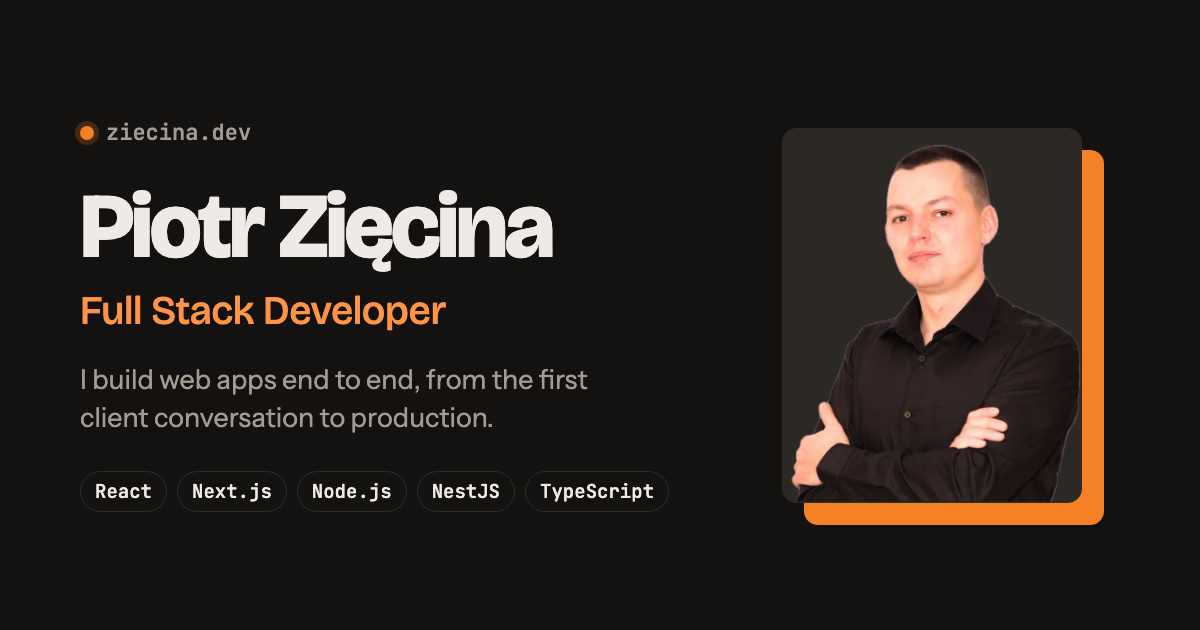
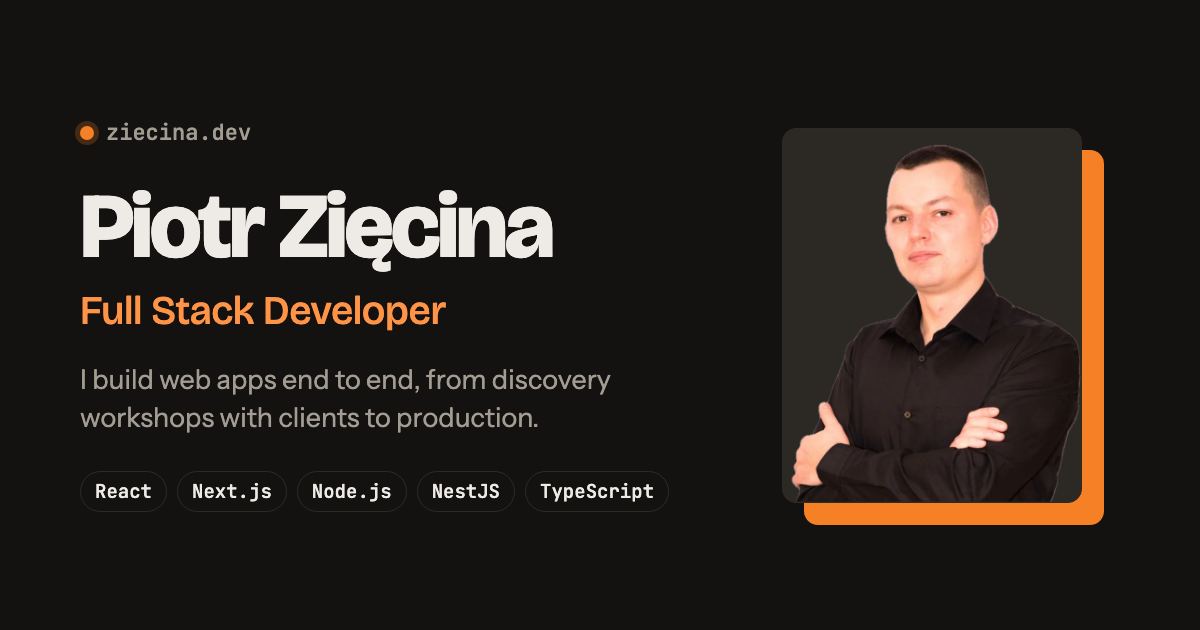
feat: compact experience timeline; full details stay in the CV

Changed region(s): [[0.0617, 0.573, 0.5242, 0.6937]]

diff --git a/src/content/pl.ts b/src/content/pl.ts
@@ -5,7 +5,7 @@ export const pl: Dictionary = {
     title:
       "Piotr Zięcina — Full Stack Developer (React, Next.js, NestJS, TypeScript)",
     description:
-      "Full Stack Developer z Wrocławia, ponad 4 lata doświadczenia komercyjnego. Tworzę aplikacje webowe od pierwszej rozmowy z klientem aż po produkcję.",
+      "Full Stack Developer z Wrocławia, ponad 4 lata doświadczenia komercyjnego. Tworzę aplikacje webowe od początku do końca: od warsztatów produktowych z klientem po wdrożenie na produkcję.",
   },
   nav: {
     projects: "Projekty",
@@ -23,7 +23,7 @@ export const pl: Dictionary = {
     badge: "Otwarty na nowe propozycje",
     name: "Piotr Zięcina",
     role: "Full Stack Developer",
-    lede: "Tworzę aplikacje webowe od początku do końca: od rozmowy z klientem po wdrożenie na produkcję. Na frontendzie React, Next.js i Vue; na backendzie Node.js, NestJS i SQL. **Ponad 4 lata doświadczenia komercyjnego**, ostatnio w SmartBear.",
+    lede: "Tworzę aplikacje webowe od początku do końca: od warsztatów produktowych z klientem po wdrożenie na produkcję. Na frontendzie React, Next.js i Vue; na backendzie Node.js, NestJS i SQL. **Ponad 4 lata doświadczenia komercyjnego**, ostatnio w SmartBear.",
     viewProjects: "Zobacz projekty",
     location: "Wrocław · praca zdalna lub hybrydowa",
     portraitAlt: "Zdjęcie Piotra Zięciny",
@@ -72,7 +72,7 @@ export const pl: Dictionary = {
         "Kontrola budowy domu: etapy, wydatki na tle budżetu, dokumenty i raporty PDF dla banku.",
       labels: { openSource: "Open source", liveDemo: "Demo na żywo" },
       short:
-        "Budując dom, żongluje się arkuszami, paragonami i raportami dla banku. Build Budget trzyma budżet, dokumenty i dziennik budowy w jednym miejscu i na bieżąco udostępnia je wszystkim osobom w projekcie.",
+        "Buduję własny dom i chciałem mieć wszystko o nim w jednym miejscu. Build Budget dzieli budowę na etapy i przy każdym trzyma budżet, rachunki, dokumenty i zdjęcia, na bieżąco udostępnione wszystkim osobom w projekcie.",
       highlights: [
         "Tokeny JWT (access i refresh) w ciasteczkach httpOnly z cichym odświeżaniem. Wykryłem i naprawiłem wyścig (race condition), w którym równoległe żądania jednocześnie odświeżały token.",
         "Subskrypcje Stripe z webhookami weryfikowanymi podpisem. Plan darmowy jest ograniczony do jednego projektu.",
@@ -112,50 +112,22 @@ export const pl: Dictionary = {
         period: "2024 – obecnie",
         role: "Software Developer",
         company: "SmartBear",
-        products: [
-          {
-            name: "Reflect",
-            description: "platforma do automatycznego testowania z AI",
-            duration: "15 miesięcy",
-            stack: "Vue.js · TypeScript · Scala · MySQL · AWS · Terraform",
-            bullets: [
-              "Dodałem wgrywanie plików CSV do wsadowego uruchamiania testów z podstawianiem zmiennych, dla klientów z testami opartymi na danych.",
-              "Samodzielnie zaprojektowałem i zbudowałem (frontend i backend) wyszukiwarkę danych testu, która stała się głównym narzędziem działu wsparcia klienta.",
-              "Wdrożyłem analitykę Amplitude, zbierając dane o użyciu z różnych produktów SmartBear w jednym miejscu.",
-              "Zbudowałem około 10 komponentów wielokrotnego użytku dla Reflect Design System na podstawie projektów w Figmie.",
-            ],
-          },
-          {
-            name: "Visual Test",
-            description: "narzędzie do wizualnego porównywania obrazów z AI",
-            duration: "9 miesięcy",
-            stack: "React · Next.js · NestJS · MySQL · AWS",
-            bullets: [
-              "Zmniejszyłem liczbę podatności bezpieczeństwa o 40% dzięki regularnym audytom i aktualizacjom zależności.",
-              "Dodałem testy jednostkowe obejmujące około 70% kodu, co zmniejszyło dług techniczny o 35%.",
-              "Analizowałem zgłoszenia klientów i razem z product managerami zamieniałem je w zadania w backlogu.",
-            ],
-          },
-        ],
+        summary: "Dwa produkty do testowania z AI: Reflect (Vue.js, Scala) i Visual Test (React, Next.js, NestJS).",
+        results: ["Zaprojektowałem i zbudowałem (frontend i backend) wyszukiwarkę danych testu, która stała się głównym narzędziem działu wsparcia klienta.", "Zmniejszyłem liczbę podatności bezpieczeństwa o 40% dzięki regularnym audytom i aktualizacjom zależności."],
       },
       {
         period: "2022 – 2024",
         role: "Full Stack Developer",
         company: "Ampcasd",
-        stack: "Next.js · Strapi · NestJS · GraphQL · MySQL · Tailwind CSS",
-        bullets: [
-          "Prowadziłem 4-osobowy zespół, który zbudował CMS i platformę webową dla centrum kultury w Niemczech, od analizy potrzeb do startu produkcyjnego w około rok.",
-          "Zapisy na zajęcia, karnety, rezerwacje sal i bilety na koncerty, z integracjami PayPal, polecenia zapłaty SEPA i niemieckiego systemu fiskalnego.",
-          "Platforma urosła do ponad 1600 użytkowników i ponad 1800 sprzedanych karnetów.",
-        ],
+        summary: "Prowadziłem 4-osobowy zespół, który zbudował CMS i platformę z zapisami, rezerwacjami i płatnościami dla centrum kultury w Niemczech, od analizy potrzeb do startu w około rok.",
+        results: ["Platforma urosła do ponad 1600 użytkowników i ponad 1800 sprzedanych karnetów."],
       },
       {
         period: "2019 – 2022",
         role: "Electrical Supervisor",
         company: "KNAPP",
-        bullets: [
-          "Nadzorowałem budowę zautomatyzowanych magazynów i systemów wysyłkowych dla klientów takich jak Tiffany, Kroger, Adidas i M&S.",
-        ],
+        summary: "Nadzorowałem budowę zautomatyzowanych magazynów i systemów wysyłkowych dla klientów takich jak Tiffany, Kroger, Adidas i M&S.",
+        results: [],
       },
     ],
     fullCv: "Pełne CV (PDF)",
@@ -324,13 +296,13 @@ export const pl: Dictionary = {
       meta: [{ label: "Rola", value: "Wszystko: produkt, API, frontend, infrastruktura, CI" }, { label: "Stack", value: "Next.js · NestJS · PostgreSQL · Redis" }, { label: "Hosting", value: "Vercel (web) · Railway (API)" }],
       links: [{ label: "Demo", href: "https://build-budget-app-web.vercel.app" }, { label: "GitHub", href: "https://github.com/softdevpz/build-budget-app" }],
       linksNote: "Kod jest publiczny",
-      problem: { heading: "Problem", body: "Budując dom, żongluje się arkuszami, paragonami i raportami dla banku. Budżet jest w jednym pliku, faktury w folderze zdjęć, a bank chce raportu w swoim formacie. Każda osoba w projekcie, od partnera po kierownika budowy, pracuje na innej kopii." },
+      problem: { heading: "Problem", body: "Buduję własny dom, a budowa produkuje mnóstwo informacji: telefony do wykonawców, zdjęcia z placu budowy, rachunki, faktury i pozwolenia. Każdy etap ma swój stos, a w praktyce wszystko było rozrzucone po arkuszach, galerii w telefonie i papierowych segregatorach. Chciałem jednego miejsca, w którym przechowam to wszystko, uporządkowane według etapów i obok budżetu, tak żeby znaleźć wszystko w kilka sekund i udostępnić to każdemu, kto bierze udział w budowie." },
       role: { heading: "Moja rola", body: "Wszystko od początku do końca: zakres produktu, API w NestJS, frontend w Next.js, infrastruktura i CI. Zbudowałem go jako kompletny produkt SaaS, a nie demo CRUD-a: z porządnym logowaniem, płatnościami, zadaniami w tle, przechowywaniem plików i aktualizacjami na żywo." },
       built: {
         heading: "Co zbudowałem",
         items: [
-          { title: "Budżet dla każdego etapu", body: "Projekt dzieli się na etapy z planowanym budżetem. Wydatki są liczone na tle planu, z wykresem podsumowania i ostrzeżeniem przy każdym etapie, który przekracza budżet." },
-          { title: "Dokumenty i dziennik budowy", body: "Pliki trafiają z przeglądarki prosto do S3 przez presigned URL, więc API nie przepuszcza przez siebie ich zawartości. Każdy etap ma dziennik ze zdjęciami." },
+          { title: "Budżet dla każdego etapu", body: "Budowa dzieli się na etapy, a każdy etap ma własną stronę z wydatkami, dokumentami, dziennikiem i zadaniami. Wydatki są liczone na tle planowanego budżetu, z wykresem podsumowania i ostrzeżeniem przy każdym etapie, który go przekracza." },
+          { title: "Dokumenty i dziennik budowy", body: "Rachunki, faktury i pozwolenia trafiają z przeglądarki prosto do S3 przez presigned URL, więc API nie przepuszcza przez siebie ich zawartości. Każdy etap ma dziennik ze zdjęciami z budowy." },
           { title: "Raporty PDF dla banku", body: "Raporty generują się w tle (Redis, BullMQ, PDFKit), więc ciężki raport nigdy nie blokuje zapytania. Użytkownik pobiera go, gdy jest gotowy." },
           { title: "Współpraca na żywo", body: "Projekt można udostępnić z rolą właściciela albo edytora. Socket.io wysyła zmiany etapów i wydatków do wszystkich, którzy mają projekt otwarty." },
           { title: "Subskrypcje", body: "Stripe Checkout z darmowym planem ograniczonym do jednego projektu. Plan zmienia się wyłącznie przez webhooki weryfikowane podpisem." },

diff --git a/src/content/en.ts b/src/content/en.ts
@@ -5,7 +5,7 @@ export const en: Dictionary = {
     title:
       "Piotr Zięcina — Full Stack Developer (React, Next.js, NestJS, TypeScript)",
     description:
-      "Full Stack Developer from Wrocław with 4+ years of commercial experience. I build web apps end to end, from the first client conversation to production.",
+      "Full Stack Developer from Wrocław with 4+ years of commercial experience. I build web apps end to end, from discovery workshops with clients to releases in production.",
   },
   nav: {
     projects: "Projects",
@@ -23,7 +23,7 @@ export const en: Dictionary = {
     badge: "Open to new opportunities",
     name: "Piotr Zięcina",
     role: "Full Stack Developer",
-    lede: "I build web applications end to end, from talking to the client to shipping to production. React, Next.js and Vue on the frontend; Node.js, NestJS and SQL on the backend. **4+ years of commercial experience**, most recently at SmartBear.",
+    lede: "I build web applications end to end, from discovery workshops with clients to releases in production. React, Next.js and Vue on the frontend; Node.js, NestJS and SQL on the backend. **4+ years of commercial experience**, most recently at SmartBear.",
     viewProjects: "View projects",
     location: "Wrocław, Poland · open to remote and hybrid",
     portraitAlt: "Portrait of Piotr Zięcina",
@@ -72,7 +72,7 @@ export const en: Dictionary = {
         "Track a house build: stages, expenses against budget, documents and bank-ready PDF reports.",
       labels: { openSource: "Open source", liveDemo: "Live demo" },
       short:
-        "People building a house juggle spreadsheets, receipts and bank reports. Build Budget keeps the budget, documents and construction diary in one place, shared in real time with everyone on the project.",
+        "I'm building my own house and wanted one place for everything about it. Build Budget splits the build into stages and keeps each stage's budget, receipts, documents and photos together, shared in real time with everyone on the project.",
       highlights: [
         "JWT access and refresh tokens in httpOnly cookies, with silent refresh. I found and fixed a race condition where parallel requests were refreshing the token at the same time.",
         "Stripe subscriptions with signature-verified webhooks. The free plan is limited to one project.",
@@ -112,50 +112,22 @@ export const en: Dictionary = {
         period: "2024 – present",
         role: "Software Developer",
         company: "SmartBear",
-        products: [
-          {
-            name: "Reflect",
-            description: "AI-powered automated testing platform",
-            duration: "15 months",
-            stack: "Vue.js · TypeScript · Scala · MySQL · AWS · Terraform",
-            bullets: [
-              "Added CSV upload for batch test runs with variable substitution, for clients running data-driven test suites.",
-              "Designed and built, frontend and backend, a test-data lookup that became the customer support team's main tool.",
-              "Implemented Amplitude analytics, centralising usage data across SmartBear products.",
-              "Built about 10 reusable UI components for the Reflect Design System from Figma specs.",
-            ],
-          },
-          {
-            name: "Visual Test",
-            description: "AI-powered visual comparison tool",
-            duration: "9 months",
-            stack: "React · Next.js · NestJS · MySQL · AWS",
-            bullets: [
-              "Cut security vulnerabilities by 40% through systematic dependency audits and upgrades.",
-              "Added unit tests across about 70% of the codebase, reducing technical debt by 35%.",
-              "Triaged customer issues with product managers and turned them into backlog items.",
-            ],
-          },
-        ],
+        summary: "Two AI-powered testing products: Reflect (Vue.js, Scala) and Visual Test (React, Next.js, NestJS).",
+        results: ["Designed and built a test-data lookup, frontend and backend, that became the customer support team's main tool.", "Cut security vulnerabilities by 40% through systematic dependency audits and upgrades."],
       },
       {
         period: "2022 – 2024",
         role: "Full Stack Developer",
         company: "Ampcasd",
-        stack: "Next.js · Strapi · NestJS · GraphQL · MySQL · Tailwind CSS",
-        bullets: [
-          "Led a team of 4 developers building a CMS and web platform for a cultural centre in Germany, from discovery to production launch in about a year.",
-          "Class registration, subscriptions, room booking and concert tickets, with PayPal, SEPA direct debit and German fiscal reporting integrations.",
-          "Grew the platform to 1,600+ users and 1,800+ subscriptions sold.",
-        ],
+        summary: "Led a team of 4 building a CMS and a booking and payments platform for a cultural centre in Germany, from discovery to launch in about a year.",
+        results: ["Grew the platform to 1,600+ users and 1,800+ subscriptions sold."],
       },
       {
         period: "2019 – 2022",
         role: "Electrical Supervisor",
         company: "KNAPP",
-        bullets: [
-          "Supervised construction of automated warehouse and shipping systems for clients such as Tiffany, Kroger, Adidas and M&S.",
-        ],
+        summary: "Supervised construction of automated warehouse and shipping systems for clients such as Tiffany, Kroger, Adidas and M&S.",
+        results: [],
       },
     ],
     fullCv: "Full CV (PDF)",
@@ -325,13 +297,13 @@ export const en: Dictionary = {
       meta: [{ label: "Role", value: "Everything: product, API, frontend, infrastructure, CI" }, { label: "Stack", value: "Next.js · NestJS · PostgreSQL · Redis" }, { label: "Hosting", value: "Vercel (web) · Railway (API)" }],
       links: [{ label: "Live demo", href: "https://build-budget-app-web.vercel.app" }, { label: "GitHub", href: "https://github.com/softdevpz/build-budget-app" }],
       linksNote: "Code is public",
-      problem: { heading: "The problem", body: "People building a house juggle spreadsheets, receipts and bank reports. The budget lives in one file, invoices in a folder of photos, and the bank wants its own report format. Everyone on the project, from a partner to the site manager, works from a different copy." },
+      problem: { heading: "The problem", body: "I'm building my own house, and a build produces a lot of information: contractors' phone numbers, photos from the site, receipts, invoices and permits. Each stage has its own pile, and in practice it ended up scattered across spreadsheets, a phone gallery and paper folders. I wanted one place to store all of it, organised by stage and next to the budget, so I can find anything in seconds and share it with everyone involved." },
       role: { heading: "My role", body: "Everything, end to end: product scope, the NestJS API, the Next.js frontend, infrastructure and CI. I built it as a complete SaaS product rather than a CRUD demo, with proper auth, payments, background jobs, file storage and real-time updates." },
       built: {
         heading: "What I built",
         items: [
-          { title: "Budget per stage", body: "Projects split into stages with a planned budget. Expenses are tracked against the plan, with a summary chart and a warning on every stage that goes over." },
-          { title: "Documents and construction diary", body: "Files go straight from the browser to S3 through presigned URLs, so the API never handles the bytes. Each stage has a diary with photos." },
+          { title: "Budget per stage", body: "The build is split into stages, and each stage has its own page with its expenses, documents, diary and tasks. Expenses are tracked against the planned budget, with a summary chart and a warning on every stage that goes over." },
+          { title: "Documents and construction diary", body: "Receipts, invoices and permits go straight from the browser to S3 through presigned URLs, so the API never handles the bytes. Each stage has a diary with photos from the site." },
           { title: "Bank-ready PDF reports", body: "Reports are generated in the background with Redis, BullMQ and PDFKit, so a heavy report never blocks a request. The user downloads it when it's ready." },
           { title: "Live collaboration", body: "A project can be shared with owner and editor roles. Socket.io pushes stage and expense changes to everyone who has the project open." },
           { title: "Subscriptions", body: "Stripe Checkout with a free plan limited to one project. The plan status changes only through signature-verified webhooks." },

diff --git a/src/components/home/Experience.tsx b/src/components/home/Experience.tsx
@@ -2,17 +2,18 @@ import type { Dictionary } from "@/content/types";
 import { site } from "@/lib/site";
 import { Section, SectionHead } from "./SectionHead";
 
+/** Compact career timeline; the CV link below has the full details. */
 export function Experience({ dict }: { dict: Dictionary }) {
   const t = dict.experience;
   return (
     <Section id="experience">
       <SectionHead eyebrow={t.eyebrow} heading={t.heading} />
-      <div>
+      <ol>
         {t.jobs.map((job, i) => (
-          <div
+          <li
             key={job.company}
             className={`grid gap-1.5 min-[820px]:grid-cols-[160px_minmax(0,1fr)] min-[820px]:gap-6 ${
-              i === 0 ? "pb-8" : "border-t border-line py-8"
+              i === 0 ? "pb-7" : "border-t border-line py-7"
             }`}
           >
             <div className="pt-1 font-mono text-[13px] text-muted">{job.period}</div>
@@ -20,34 +21,18 @@ export function Experience({ dict }: { dict: Dictionary }) {
               <h3 className="text-h4 font-bold tracking-[-0.01em]">
                 {job.role} <span className="text-accent">· {job.company}</span>
               </h3>
-              {job.stack && <p className="mt-2 font-mono text-[13px] text-muted">{job.stack}</p>}
-              {job.bullets && (
+              <p className="mt-2 max-w-[70ch] text-base text-muted">{job.summary}</p>
+              {job.results.length > 0 && (
                 <ul className="ticks mt-3 text-base">
-                  {job.bullets.map((b) => (
-                    <li key={b}>{b}</li>
+                  {job.results.map((r) => (
+                    <li key={r}>{r}</li>
                   ))}
                 </ul>
               )}
-              {job.products?.map((p) => (
-                <div key={p.name} className="mt-5 border-l-2 border-line pl-4.5">
-                  <h4 className="font-sans text-[17px] font-semibold tracking-normal">
-                    {p.name}{" "}
-                    <span className="font-normal text-muted">
-                      · {p.description} · {p.duration}
-                    </span>
-                  </h4>
-                  <p className="mt-1 font-mono text-[13px] text-muted">{p.stack}</p>
-                  <ul className="ticks mt-3 text-base">
-                    {p.bullets.map((b) => (
-                      <li key={b}>{b}</li>
-                    ))}
-                  </ul>
-                </div>
-              ))}
             </div>
-          </div>
+          </li>
         ))}
-      </div>
+      </ol>
       <a href={site.cv} download className="btn mt-9">
         {t.fullCv} <span className="arrow">→</span>
       </a>

diff --git a/src/content/types.ts b/src/content/types.ts
@@ -96,20 +96,8 @@ export type Dictionary = {
   experience: {
     eyebrow: string;
     heading: string;
-    jobs: {
-      period: string;
-      role: string;
-      company: string;
-      stack?: string;
-      bullets?: string[];
-      products?: {
-        name: string;
-        description: string;
-        duration: string;
-        stack: string;
-        bullets: string[];
-      }[];
-    }[];
+    /** A compact timeline; the full details live in the CV. */
+    jobs: { period: string; role: string; company: string; summary: string; results: string[] }[];
     fullCv: string;
   };
   skills: {

diff --git a/scripts/og/template.html b/scripts/og/template.html
@@ -126,8 +126,8 @@
       document.documentElement.lang = lang;
       document.getElementById("tagline").textContent =
         lang === "pl"
-          ? "Tworzę aplikacje webowe od rozmowy z klientem po wdrożenie na produkcję."
-          : "I build web apps end to end, from the first client conversation to production.";
+          ? "Tworzę aplikacje webowe od warsztatów z klientem po wdrożenie na produkcję."
+          : "I build web apps end to end, from discovery workshops with clients to production.";
     </script>
   </body>
 </html>

diff --git a/CLAUDE.md b/CLAUDE.md
@@ -9,7 +9,9 @@ session id `79ada3ba-86d6-4d63-98ed-a04536124c38`.
 - **Stack:** Next.js (static export) + TypeScript + Tailwind CSS, matching the CV.
 - **Hosting:** Cloudflare **Workers with static assets** (decided 2026-10-22; the new dashboard steers new projects to Workers instead of Pages). Config in `wrangler.jsonc` (assets from `out/`, `404-page`, `force-trailing-slash`). Deployed through Workers Builds connected to GitHub: build `npm run build`, deploy `npx wrangler deploy`. Verified locally with `wrangler dev`: /en → 307 /en/, unknown URL → 404 Namek page. Live since 2026-10-22 at https://ziecina-dev.softdevpz.workers.dev (Worker `ziecina-dev`, auto-deploys on push to `main`). https://ziecina.dev attached and working (2026-10-22). `www.ziecina.dev` is a proxied CNAME to the apex with Redirect Rule "www to root" (`http.host eq "www.ziecina.dev"` → 301 to https://ziecina.dev + path, query kept); verified 2026-10-22. MX/SPF/DMARC verified untouched. The domain's DNS is already on Cloudflare.
 - **DNS:** add only records for `ziecina.dev` / `www`. NEVER touch MX/SPF/DKIM/DMARC, because piotr@ziecina.dev depends on them.
-- **Sections:** hero → projects (case studies) → experience → skills → about → contact. No blog, no skill bars.
+- **Sections:** hero → projects (case studies) → experience → skills → about → contact. No skill bars.
+- **Experience** is a compact timeline (2026-10-26, after feedback that copying the CV onto the site feels redundant): per job only role, company, period, one sentence and up to two results; details stay in the CV.
+- **Blog:** postponed (2026-10-26). Plan when revisited: Piotr first writes 2–3 LinkedIn posts; if it sticks, add a "Notes" section (MDX in the repo, no CMS). Topic ideas: refresh-token race, PWA vs native for Stajnia, UI for older users, Prisma on Alpine, Next.js 16 static site on Cloudflare Workers.
 - **Stajnia Lauden** (~/Projects/stadnina-app): may be shown publicly, but the **owner must approve the content before publishing**. The repo is **private** (kept as a product), so never link to the code. Screenshots use demo data only.
   - Linking https://stajnialauden.pl is confirmed (2026-10-16).
   - Testimonial: lorem ipsum placeholder until the owner sends the real one.
@@ -42,6 +44,8 @@ session id `79ada3ba-86d6-4d63-98ed-a04536124c38`.
 - CV links: sticky header + "Full CV" under Experience (removed from Contact on 2026-10-22).
 - Hero on phones: intro → photo → buttons/location (2026-10-26). Case study accessibility rules are plain text (tiles removed).
 - Case studies (2026-10-26): one shared layout `CaseStudyView` + `caseStudyRoute(slug)`; content in `dict.caseStudies.{stajnia,buildBudget}` (type `CaseStudy`, optional sections: users, testimonial, screens). Routes `/[lang]/projects/stajnia-lauden/` and `/[lang]/projects/build-budget/`; "Next project" links cycle between them.
+- Build Budget is framed as Piotr's own need (he is building his own house; 2026-10-26): one place for everything per stage (budget, receipts, invoices, permits, photos, contacts). Piotr is polishing the app and will send screenshots.
+- Hero/meta wording (2026-10-26, after feedback): "from discovery workshops with clients to releases in production" / "od warsztatów produktowych z klientem po wdrożenie na produkcję". OG images regenerated; re-run LinkedIn Post Inspector after deploy.
 - Build Budget case study content comes from the public repo's README and code (e.g. idempotent refresh in `apps/api/src/auth/auth.service.ts`). No screenshots yet: the demo needs a login, so Piotr will send them; the screens section stays hidden until then.
 - build-budget-app's README links to ARCHITECTURE.md, which exists on no branch (checked 2026-10-26). The "architecture write-up" highlight was removed from the site; re-add it once the file is in the repo.
 - Portrait caption is 3 lines: React · Next.js / Node.js · NestJS / MySQL · PostgreSQL (SQL/NoSQL suggestion rejected). 404 has a single button to "/" (language auto-detected).
